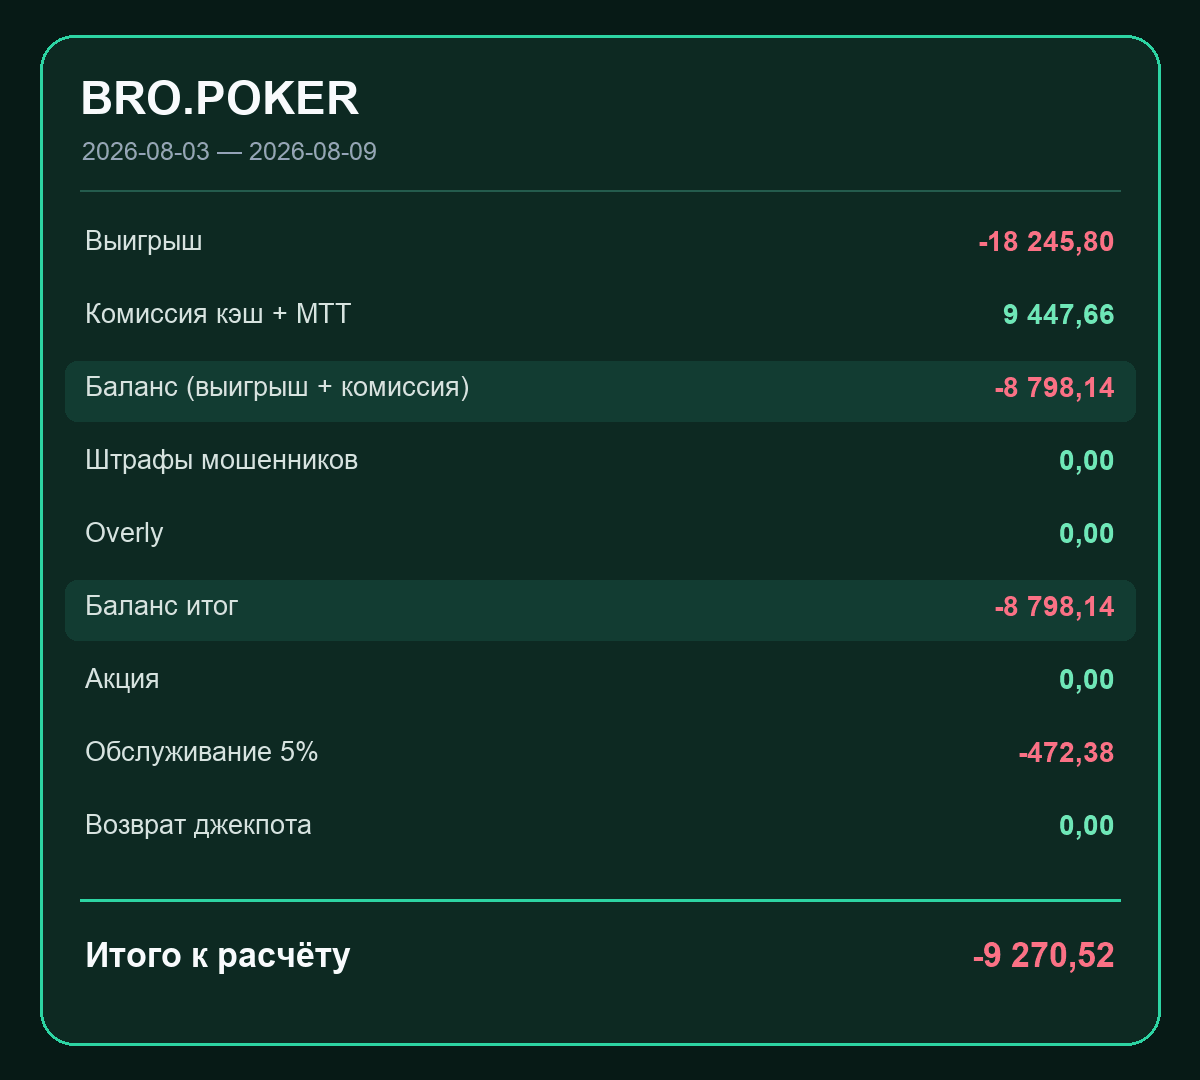
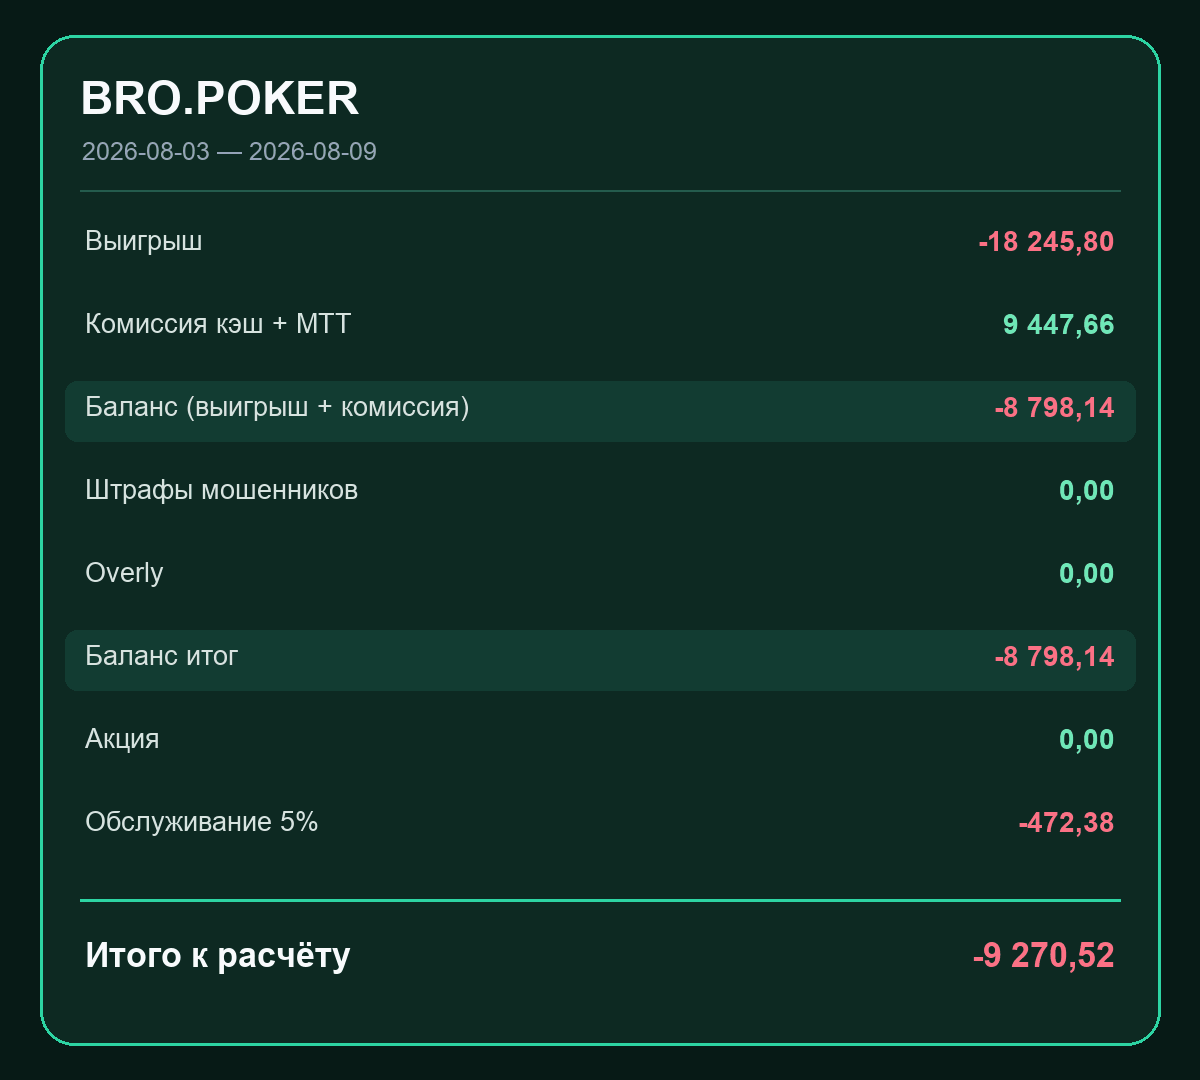
Refine union report delivery

diff --git a/lib/api-handlers/telegram-report-webhook.js b/lib/api-handlers/telegram-report-webhook.js
@@ -599,17 +599,26 @@ async function sendUnionReports(chatId, messageId, data = latestUnionData) {
   const romanLeagueNames = ["VAULT 13", "Rbpoker", "QUASAR", "PPCUNION", "ONL YSTARS", "Ginger", "BRO.POKER", "Bambuk", "AF UNION"];
   const reportByName = new Map(reports.map((report) => [String(report.league || "").toLowerCase(), report]));
   const romanReports = romanLeagueNames.map((name) => reportByName.get(name.toLowerCase())).filter(Boolean);
-  const romanSet = new Set(romanReports);
-  const sergeyReports = reports.filter((report) => !romanSet.has(report));
+  const ilyaReports = [reportByName.get("ссср")].filter(Boolean);
+  const assignedReports = new Set([...romanReports, ...ilyaReports]);
+  const sergeyReports = reports.filter((report) => !assignedReports.has(report));
   const groups = [
     { heading: "❗ ДЛЯ РОМАНА:", reports: romanReports },
     { heading: "❗ ДЛЯ СЕРГЕЯ:", reports: sergeyReports },
+    { heading: "❗ ДЛЯ ИЛЬИ:", reports: ilyaReports },
   ];
   for (const [groupIndex, group] of groups.entries()) {
-    const media = group.reports.map((report, reportIndex) => {
+    if (group.reports.length === 0) continue;
+    const headingSent = await telegram("sendMessage", {
+      chat_id: chatId,
+      text: `<b>${group.heading}</b>`,
+      parse_mode: "HTML",
+      ...(groupIndex === 0 ? { reply_to_message_id: messageId } : {}),
+    });
+    allSent = allSent && Boolean(headingSent.ok);
+    const media = group.reports.map((report) => {
       const metrics = report.metrics || {};
       const lines = [
-        ...(reportIndex === 0 ? [`<b>${group.heading}</b>`, ""] : []),
         `<b>${escapeTelegramHtml(report.league)}</b>`,
         `<b>Период: ${displayIso(report.startDate)}–${displayIso(report.endDate)}</b>`,
         "",
@@ -621,22 +630,27 @@ async function sendUnionReports(chatId, messageId, data = latestUnionData) {
         `<b>Баланс итог: ${formatRake(metrics.balanceFinal)}</b>`,
         `Акция: ${formatRake(metrics.promo)}`,
         `Единый платёж за обслуживание ${formatPercent(metrics.servicePercent)}%: ${formatRake(metrics.service)}`,
-        `Возврат джекпота: ${Number(metrics.jackpotRefund || 0) > 0 ? "+" : ""}${formatRake(metrics.jackpotRefund)}`,
+        ...(Number(metrics.jackpotRefund || 0) > 0
+          ? [`Возврат джекпота: +${formatRake(metrics.jackpotRefund)}`]
+          : []),
         "",
         `<b>Итого к расчёту: ${formatRake(metrics.total)}</b>`,
       ];
       return {
         type: "photo",
-        media: `${APP_ORIGIN}${report.imagePath}?v=refund-plus-1`,
+        media: `${APP_ORIGIN}${report.imagePath}?v=refund-optional-2`,
         caption: lines.join("\n"),
         parse_mode: "HTML",
       };
     });
-    const sent = await telegram("sendMediaGroup", {
-      chat_id: chatId,
-      media,
-      ...(groupIndex === 0 ? { reply_to_message_id: messageId } : {}),
-    });
+    const sent = media.length === 1
+      ? await telegram("sendPhoto", {
+          chat_id: chatId,
+          photo: media[0].media,
+          caption: media[0].caption,
+          parse_mode: media[0].parse_mode,
+        })
+      : await telegram("sendMediaGroup", { chat_id: chatId, media });
     allSent = allSent && Boolean(sent.ok);
   }
   return allSent;

diff --git a/scripts/build-union-report-cards.py b/scripts/build-union-report-cards.py
@@ -49,8 +49,10 @@ def main():
             ("Баланс итог", metrics["balanceFinal"]),
             ("Акция", metrics["promo"]),
             (f"Обслуживание {metrics['servicePercent']}%", metrics["service"]),
-            ("Возврат джекпота", metrics["jackpotRefund"]),
         ]
+        if float(metrics.get("jackpotRefund", 0)) > 0:
+            rows.append(("Возврат джекпота", metrics["jackpotRefund"]))
+        row_step = 73 if len(rows) == 9 else 83
         y = 225
         for index, (label, value) in enumerate(rows):
             if index in (2, 5):
@@ -60,7 +62,7 @@ def main():
             value_box = draw.textbbox((0, 0), value_text, font=value_font)
             color = "#6EE7B7" if float(value) >= 0 else "#FB7185"
             draw.text((1115 - (value_box[2] - value_box[0]), y), value_text, font=value_font, fill=color)
-            y += 73
+            y += row_step
         draw.line((80, 900, 1120, 900), fill="#2DD4A3", width=3)
         draw.text((85, 936), "Итого к расчёту", font=total_font, fill="#F8FAFC")
         total_text = money(metrics["total"])
